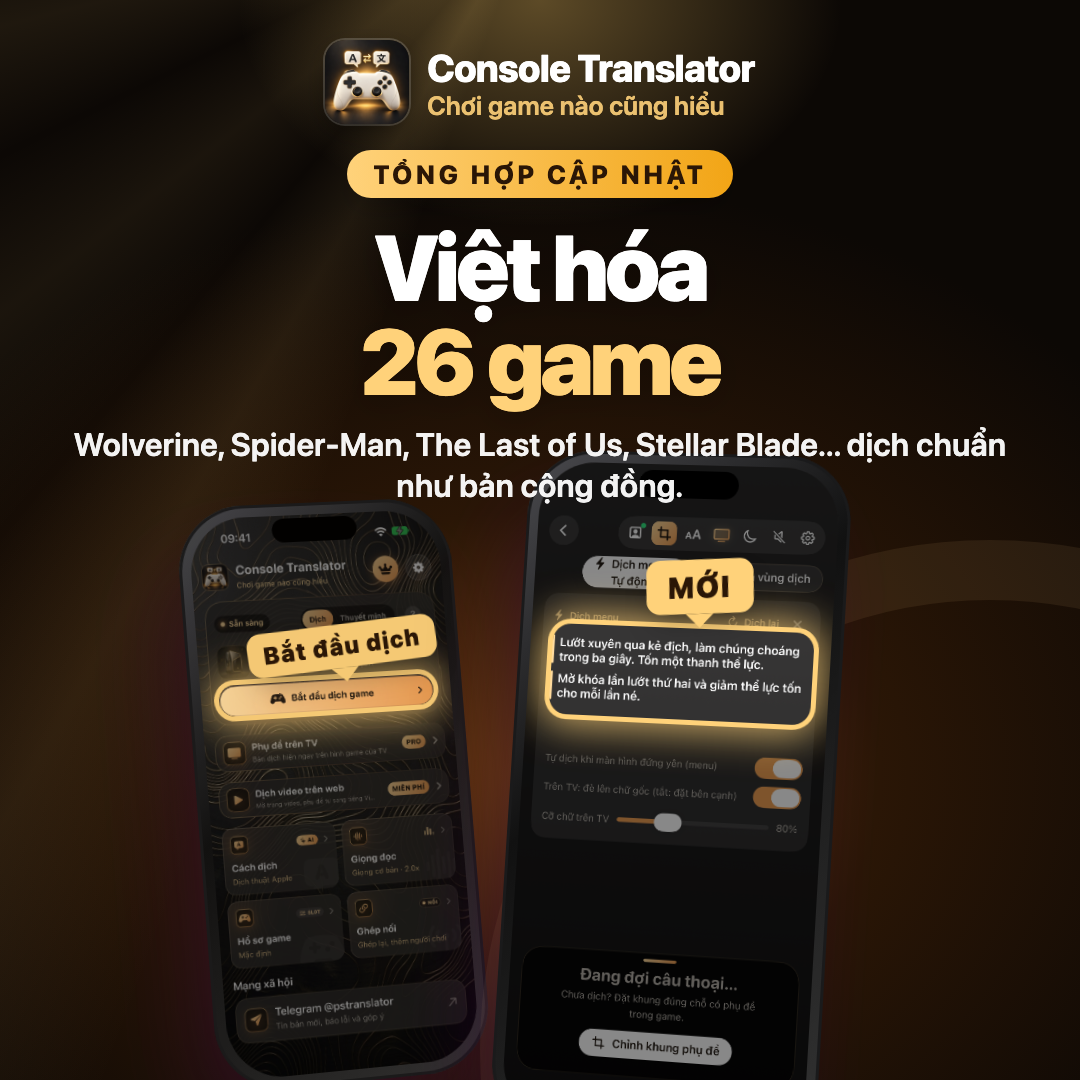
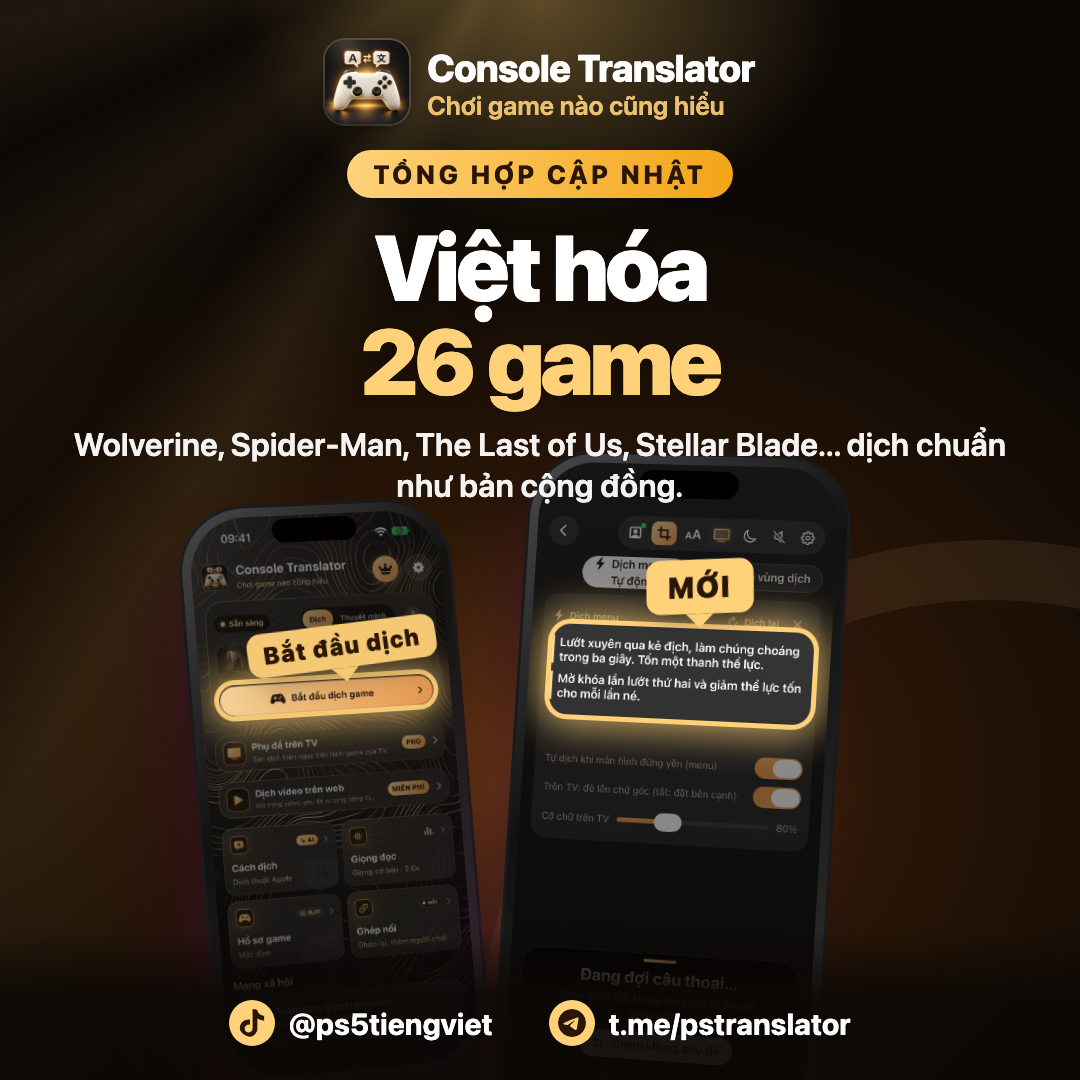
Posts: TikTok and Telegram footer

Changed region(s): [[0.1833, 0.8861, 0.4583, 1.0], [0.4889, 0.8861, 0.7944, 1.0]]

diff --git a/posts/index.html b/posts/index.html
@@ -55,6 +55,10 @@
   .card.gold .hl { box-shadow: 0 0 0 5px var(--gold), 0 0 40px 10px #ffd27acc, 0 0 0 2000px #0007; }
   .card.gold .tag { background: var(--gold); color: #2a1606; }
   .card.gold .tag::after { border-top-color: var(--gold); }
+  .social { position: absolute; left: 0; right: 0; bottom: 0; z-index: 4; display: flex; justify-content: center; gap: 56px;
+    padding: 70px 0 34px; background: linear-gradient(transparent, #0c0805e6 45%); font-size: 30px; font-weight: 700; }
+  .social span { display: flex; align-items: center; gap: 14px; }
+  .social svg { width: 46px; height: 46px; padding: 9px; border-radius: 50%; background: var(--gold); fill: #2a1606; }
   .grid { display: flex; flex-wrap: wrap; gap: 20px; padding: 20px; }
   .grid .wrap { width: 378px; height: 378px; overflow: hidden; border-radius: 18px; }
   .grid .card { transform: scale(.35); transform-origin: top left; }
@@ -76,6 +80,7 @@ const POSTS = [
     phone: 'menu.png', hl: [7.5, 24.8, 87, 13.8], tag: 'MỚI',
     back: 'home.png', backHl: [7, 30, 86, 5.6], backTag: 'Bắt đầu dịch', theme: 'gold' },
 ];
+const SOCIAL = `<div class="social"><span><svg viewBox="0 0 24 24"><path d="M12.525.02c1.31-.02 2.61-.01 3.91-.02.08 1.53.63 3.09 1.75 4.17 1.12 1.11 2.7 1.62 4.24 1.79v4.03c-1.44-.05-2.89-.35-4.2-.97-.57-.26-1.1-.59-1.62-.93-.01 2.92.01 5.84-.02 8.75-.08 1.4-.54 2.79-1.35 3.94-1.31 1.92-3.58 3.17-5.91 3.21-1.43.08-2.86-.31-4.08-1.03-2.02-1.19-3.44-3.37-3.65-5.71-.02-.5-.03-1-.01-1.49.18-1.9 1.12-3.72 2.58-4.96 1.66-1.44 3.980-2.13 6.15-1.72.02 1.48-.04 2.96-.04 4.44-.99-.32-2.15-.23-3.02.37-.63.41-1.11 1.04-1.36 1.75-.21.51-.15 1.07-.14 1.61.24 1.64 1.82 3.02 3.5 2.87 1.12-.01 2.19-.66 2.77-1.61.19-.33.4-.67.41-1.06.1-1.79.06-3.57.07-5.36.01-4.03-.01-8.05.02-12.07z"/></svg>@ps5tiengviet</span><span><svg viewBox="0 0 24 24"><path d="M11.944 0A12 12 0 0 0 0 12a12 12 0 0 0 12 12 12 12 0 0 0 12-12A12 12 0 0 0 12 0a12 12 0 0 0-.056 0zm4.962 7.224c.1-.002.321.023.465.14a.506.506 0 0 1 .171.325c.016.093.036.306.02.472-.18 1.898-.962 6.502-1.36 8.627-.168.9-.499 1.201-.82 1.23-.696.065-1.225-.46-1.9-.902-1.056-.693-1.653-1.124-2.678-1.8-1.185-.78-.417-1.21.258-1.91.177-.184 3.247-2.977 3.307-3.230.007-.032.014-.15-.056-.212s-.174-.041-.249-.024c-.106.024-1.793 1.14-5.061 3.345-.48.33-.913.49-1.302.48-.428-.008-1.252-.241-1.865-.44-.752-.245-1.349-.374-1.297-.789.027-.216.325-.437.893-.663 3.498-1.524 5.830-2.529 6.998-3.014 3.332-1.386 4.025-1.627 4.476-1.635z"/></svg>t.me/pstranslator</span></div>`;
 const card = p => {
   const [x, y, w, h] = p.hl || [];
   const back = p.back ? (() => { const [a, b, c, d] = p.backHl;
@@ -86,7 +91,7 @@ const card = p => {
   <div class="stage"><div class="phone"><img src="../appstore/raw/${p.phone}" alt="">
   ${p.hl ? `<div style="position:absolute;inset:12px;border-radius:57px;overflow:hidden"><div class="hl" style="left:${x}%;top:${y}%;width:${w}%;height:${h}%"></div></div>
   <div class="tag" style="left:calc(12px + ${x + w / 2}% - 52px);top:calc(12px + ${y}% - 76px)">${p.tag}</div>` : ''}
-  </div></div></section>`;
+  </div></div>${p.theme ? SOCIAL : ''}</section>`;
 };
 const id = new URLSearchParams(location.search).get('post');
 const root = document.getElementById('root');
